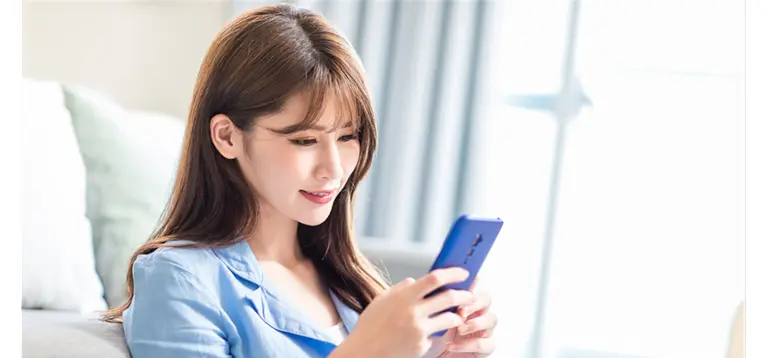
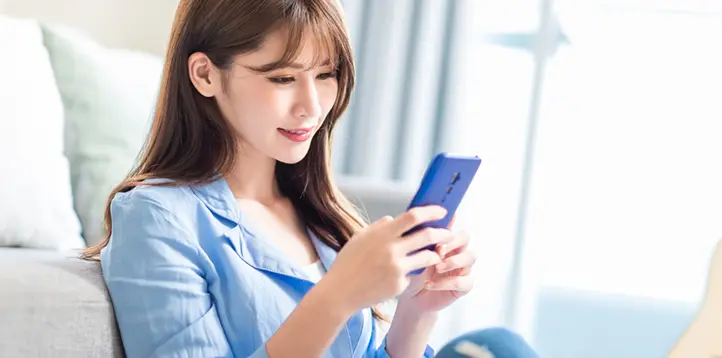
CSS完成

diff --git a/css/style.css b/css/style.css
@@ -1,1 +1,1 @@
-@charset "UTF-8";*,::after,::before{box-sizing:border-box}a,body,button,dd,div,dl,dt,figure,h1,h2,h3,h4,h5,h6,html,img,li,ol,p,small,span,table,td,th,time,tr,ul{border:0;font-size:100%;font-weight:400;margin:0;padding:0;vertical-align:baseline}html{-webkit-text-size-adjust:100%;-moz-text-size-adjust:100%;text-size-adjust:100%;line-height:1}ol,ul{list-style-type:""}dd,li{list-style-type:none}article,aside,figcaption,figure,footer,header,main,nav,section{display:block}img{border:none;vertical-align:bottom}abbr{text-decoration:none}address{font-style:normal;font-weight:400}iframe{border:none}html{font-size:calc(16 / 393 * 100vw)}@media screen and (min-width:750px){html{font-size:calc(16 / 393 * 750px)}}body{color:#333;font-family:"Noto Sans JP",sans-serif;font-size:.875rem;margin:0 auto;max-width:750px}a{color:inherit;text-decoration:none}@media (any-hover:hover){a:hover{cursor:pointer}}a{transition:opacity .3s ease-in-out}a:focus-visible{opacity:.6}@media (any-hover:hover){a:hover{opacity:.6}}a,img,picture{display:inline-block}img,picture,svg,video{height:100%;width:100%}img{-o-object-fit:cover;object-fit:cover}button{background:0 0;background:0 0;border:none;color:inherit}button,input,select,textarea{font:inherit}@media (min-width:768px){a[href*="tel:"]{cursor:default}}:where(button,[type=button],[type=reset],[type=submit]){touch-action:manipulation}:where(:-moz-any-link,button,[type=button],[type=reset],[type=submit],label[for],select,summary,[role=tab],[role=button]){cursor:pointer}:where(:any-link,button,[type=button],[type=reset],[type=submit],label[for],select,summary,[role=tab],[role=button]){cursor:pointer}@media (prefers-reduced-motion:reduce){*,::after,::backdrop,::before{animation-delay:0s!important;animation-duration:1ms!important;animation-iteration-count:1!important;background-attachment:scroll!important;scroll-behavior:auto!important;transition-delay:0s!important;transition-duration:1ms!important}}a[href^="tel:"]{cursor:default}:focus-visible{border-radius:4px;outline:2px solid #333}summary{display:block}summary::-webkit-details-marker{display:none}@media (any-hover:hover){summary:hover{cursor:pointer}}.l-inner{height:inherit;margin-inline:auto;max-width:768px;padding:0 1.125rem;position:relative;width:100%}.l-footer__inner{padding-block:2.5rem 2rem}.l-footer__container{align-items:center;display:flex;gap:1.875rem;justify-content:center}.l-footer__container,.l-footer__copyright{color:#8d8d8d;font-size:.75rem;font-weight:400;line-height:1.6}.l-footer__copyright{display:inline-block;margin-block-start:.6875rem;text-align:center;width:100%}.c-benefit-card{border-radius:.1875rem}.c-benefit-card__head{color:#fff;display:flex;flex-direction:column;gap:.4375rem;height:6.25rem;justify-content:center;position:relative;text-align:center}.c-benefit-card__bg{background:#fa92a7;border-radius:.1875rem .1875rem 0 0;height:6.3125rem;position:absolute;width:100%;z-index:1}.c-benefit-card__bg::before{background:#fa92a7;border-radius:50%;content:"";height:5.125rem;left:50%;position:absolute;top:-2.5625rem;transform:translateX(-50%);width:5.125rem}.c-benefit-card__number{font-family:"EB Garamond",sans-serif;font-size:2rem;font-weight:400;top:-1rem;translate:-50%;z-index:2}.c-benefit-card__number,.c-benefit-card__number::before{font-style:italic;left:50%;line-height:.875;position:absolute;text-align:center}.c-benefit-card__number::before{content:"Point";font-size:1.0625rem;font-weight:300;top:-.8125rem;transform:translateX(-50%)}.c-benefit-card__text{color:#fff;font-family:"shippori mincho",serif;font-size:1.6875rem;font-weight:700;line-height:1.18;z-index:2}.c-benefit-card__body{display:flex;flex-direction:column-reverse}.c-benefit-card__description-wrap{background:#fff8fa;border-radius:0 0 .1875rem .1875rem;padding-block-end:.625rem;padding-block-start:.875rem;padding-inline:.9375rem}.c-benefit-card__description{color:#374151;font-size:.875rem;font-weight:400;line-height:1.62}.c-benefit-card__attention{display:inline-block;margin-block-start:.5rem}.p-action{padding-block-start:2.5rem}.p-action__head{display:flex;flex-direction:column;gap:.5rem}.p-action__head span{font-size:.875rem}.p-action__head-text{background:linear-gradient(126deg,#ed8ea4 38.44%,#e66881 109.98%);border-radius:.4375rem;color:#fff;display:inline-block;font-family:"shippori mincho",serif;font-size:1.5rem;font-weight:800;line-height:1.8;margin-inline:auto;padding-inline:.625rem;text-align:center;width:-moz-fit-content;width:fit-content}.p-action__contents{padding-block:2.5rem}.p-action__text{color:#333;font-weight:700;text-align:center;text-align:center}.p-action__text--1,.p-action__text--2{line-height:1.8}.p-action__text--2{padding-block-start:1.3125rem}.p-action__text--3{padding-block-start:1.0625rem}.p-action__list{display:flex;flex-direction:column;gap:.625rem;padding-block-start:1.875rem}.p-action__item{align-items:center;background:#ffedf2;border:.03125rem solid #e5647e;border-radius:.125rem;display:flex;gap:.5rem;margin-inline:auto;padding-inline-start:.5625rem;width:18.75rem}.p-action__item-check{height:.875rem;width:.875rem}.p-action__item-text{color:#e5647e;font-weight:700;line-height:1.8}.p-action__text--4{line-height:1.8;padding-block-start:1.75rem}.p-action__text--5{padding-block-start:.75rem}.p-benefit{background:#ffe1e1;padding-block-end:2.5625rem}.p-benefit__head{height:15.5625rem;position:relative}.p-benefit__head-bg{inset:0;position:absolute}.p-benefit__head-text{color:#fff;font-family:"shippori mincho",serif;font-size:1.25rem;font-weight:800;left:50%;line-height:1.85;position:absolute;text-align:center;top:2.5rem;translate:-50%;width:100%}.p-benefit__head-text--accent{font-size:2rem;position:relative}.p-benefit__head-text--accent::after{background:url(../img/dec_line.svg);content:"";position:absolute}.p-benefit__list{display:flex;flex-direction:column;gap:4rem;margin-block:3.125rem 2rem}.p-credibility{background:#fff7f8;padding-block-end:1.875rem}.p-credibility__head{height:11.625rem;position:relative}.p-credibility__head-bg{inset:0;position:absolute}.p-credibility__head-text{color:#fff;font-family:"shippori mincho",serif;font-size:1.375rem;font-weight:800;left:50%;line-height:1.17;position:absolute;text-align:center;top:2.5rem;translate:-50%;width:100%}.p-credibility__content{background:#fff;border-radius:.75rem;box-shadow:.125rem .125rem .6875rem 0 rgba(222,188,192,.4);padding:1.9375rem 1rem}.p-credibility__name-group{display:flex;flex-direction:column;gap:.25rem}.p-credibility__name-text{background:#fa92a7;border-radius:.3125rem;color:#fff;display:inline-block;font-size:1.125rem;font-weight:700;line-height:1.8;margin-inline:auto;padding-inline:.625rem;width:-moz-fit-content;width:fit-content}.p-credibility__icon{margin-inline:auto;padding-block-start:.4375rem;width:12.0625rem}.p-credibility__text{color:#374151;font-weight:350;line-height:2.2}.p-credibility__text+.p-credibility__text{padding-block-start:1.125rem}.p-easeofuse{background:#ffe1e1}.p-easeofuse__head{background:#e5647e;color:#fff;font-family:"shippori mincho",serif;font-size:1.375rem;font-weight:800;line-height:1.45;padding-block:1.3125rem;text-align:center;white-space:nowrap;width:100%}.p-easeofuse__inner{padding-block:1.375rem 2.5rem;text-align:center}.p-easeofuse__description-1{font-weight:500;line-height:2.21}.p-easeofuse__video-container{margin-inline:auto;padding-block-start:1.6875rem;width:20.9375rem}.p-easeofuse__video-container video{aspect-ratio:635/401}.p-easeofuse__description-2{color:#e5647e;font-family:"shippori mincho",serif;font-size:1.75rem;font-weight:800;line-height:1.21;padding-block-start:1.3125rem}.p-easeofuse__description-3{font-weight:500;line-height:2.21;padding-block-start:.8125rem}.p-easeofuse__point{padding-block-start:1.875rem}.p-easeofuse__point-head{display:inline-block;width:11.8125rem}.p-easeofuse__point-list{display:flex;flex-direction:column;gap:.6875rem;margin-inline:auto;padding-block-start:.75rem;width:17.875rem}.p-easeofuse__point-item{background:#fff;border:.0625rem solid #e5647e;border-radius:.4375rem;padding:.375rem 1.375rem}.p-easeofuse__point-title{color:#e5647e;font-weight:700;line-height:1.42}.p-easeofuse__point-description{color:#374151;font-size:.75rem;font-weight:700;line-height:1.33;margin-block-start:.1875rem}.p-faq{background:#ffe1e1}.p-faq__head{background:#e5647e;color:#fff;font-family:"shippori mincho",serif;font-size:1.375rem;font-weight:800;line-height:2.8;padding-block:1.625rem 1.9375rem;text-align:center;width:100%}.p-faq__container{padding-block:2.5rem}.p-faq__item{background:#fff;border-radius:.875rem;color:#e5647e;font-family:"shippori mincho",serif;font-size:.875rem;line-height:2;padding-inline:1rem}.p-faq__question{padding-block:.5625rem;position:relative}.p-faq__question::after,.p-faq__question::before{background-color:#e5647e;content:"";position:absolute;top:50%;translate:0 -50%}.p-faq__question::before{height:.0625rem;right:0;width:.625rem}.p-faq__question::after{height:.625rem;right:.25rem;transition:rotate .3s ease-in-out;width:.0625rem}.p-faq__question-text{font-weight:800;padding-inline:1.25rem .9375rem;position:relative}.p-faq__question-text::before{content:"Q.";left:0;position:absolute;top:50%;translate:0 -50%}.p-faq__answer{border-block-start:1px solid #d9d9d9;height:0;opacity:0;overflow:hidden;transition:height .4s ease,opacity .4s ease}.is-opened .p-faq__answer{opacity:1}.p-faq__answer-text{color:#333;font-family:"Noto Sans JP",sans-serif;font-size:.6875rem;font-weight:400;line-height:1.9;padding-block:.5625rem;padding-left:1.25rem;position:relative}.p-faq__answer-text::before{color:#e5647e;content:"A.";font-family:"shippori mincho",serif;font-size:.875rem;font-weight:500;left:0;position:absolute;top:.25rem}.p-faq__item.is-opened .p-faq__question::after{rotate:90deg}details+details{margin-block-start:.625rem}.u-animation__fadeIn{opacity:0;transition:all .3s ease-in-out;translate:0 20px}.u-animation__fadeIn.js-show{opacity:1;translate:0}@media screen and (min-width:480px){.u-xs-visible{display:none}}.u-xs-hidden{display:none}@media screen and (min-width:480px){.u-xs-hidden{display:block}}.u-sm-visible{display:block}@media screen and (min-width:768px){.u-sm-visible{display:none}}.u-sm-hidden{display:none}@media screen and (min-width:768px){.u-sm-hidden{display:inline-block}}.u-sm-hidden--inline{display:none}@media screen and (min-width:768px){.u-sm-hidden--inline{display:inline-block}}.u-md-hidden{display:block}@media screen and (min-width:768px){.u-md-hidden{display:none}}.u-md-visible{display:none}@media screen and (min-width:768px){.u-md-visible{display:block}}.u-lg-visible{display:none}@media screen and (min-width:960px){.u-lg-visible{display:block}}.u-lg-hidden{display:block}@media screen and (min-width:960px){.u-lg-hidden{display:none}}.u-xl-visible{display:none}@media screen and (min-width:1280px){.u-xl-visible{display:block}}.u-xxl-visible{display:none}@media screen and (min-width:1440px){.u-xxl-visible{display:block}}.u-font-small{color:#6b7280;font-size:.6875rem;font-weight:300;line-height:1.6}.u-font-color--accent-pink{color:#e5647e!important;font-weight:700}.u-font--attention{color:#8d8d8d;font-size:.625rem;font-weight:400;line-height:1.6;text-align:center}.u-font--attention--left{text-align:left}.u-font-squire{background:#fff;border:.03125rem solid #e5647e;border-radius:.125rem;color:#e5647e;font-weight:700;padding-inline:.125rem}.u-pointer__none{pointer-events:none!important}@media screen and (min-width:768px){.u-pointer__none--pc,.u-pointer__none--sp{pointer-events:none!important}}.u-text__center{text-align:center!important}@media screen and (min-width:768px){.u-text__center--pc,.u-text__center--sp{text-align:center!important}}.u-text__left{text-align:left!important}@media screen and (min-width:768px){.u-text__left--pc,.u-text__left--sp{text-align:left!important}}.u-text__right{text-align:right!important}@media screen and (min-width:768px){.u-text__right--pc,.u-text__right--sp{text-align:right!important}}.u-text__nowrap{white-space:nowrap}@media screen and (min-width:768px){.u-text__nowrap--pc,.u-text__nowrap--sp{white-space:nowrap}}.u-text__uppercase{text-transform:uppercase}.u-text__bold{font-weight:700}
+@charset "UTF-8";*,::after,::before{box-sizing:border-box}a,body,button,dd,div,dl,dt,figure,h1,h2,h3,h4,h5,h6,html,img,li,ol,p,small,span,table,td,th,time,tr,ul{border:0;font-size:100%;font-weight:400;margin:0;padding:0;vertical-align:baseline}html{-webkit-text-size-adjust:100%;-moz-text-size-adjust:100%;text-size-adjust:100%;line-height:1}ol,ul{list-style-type:""}dd,li{list-style-type:none}article,aside,figcaption,figure,footer,header,main,nav,section{display:block}img{border:none;vertical-align:bottom}abbr{text-decoration:none}address{font-style:normal;font-weight:400}iframe{border:none}html{font-size:calc(16 / 393 * 100vw)}@media screen and (min-width:750px){html{font-size:calc(16 / 393 * 750px)}}body{color:#333;font-family:"Noto Sans JP",sans-serif;font-size:.875rem;margin:0 auto;max-width:750px}a{color:inherit;text-decoration:none}@media (any-hover:hover){a:hover{cursor:pointer}}a{transition:opacity .3s ease-in-out}a:focus-visible{opacity:.6}@media (any-hover:hover){a:hover{opacity:.6}}a,img,picture{display:inline-block}img,picture,svg,video{height:100%;width:100%}img{-o-object-fit:cover;object-fit:cover}button{background:0 0;background:0 0;border:none;color:inherit}button,input,select,textarea{font:inherit}@media (min-width:768px){a[href*="tel:"]{cursor:default}}:where(button,[type=button],[type=reset],[type=submit]){touch-action:manipulation}:where(:-moz-any-link,button,[type=button],[type=reset],[type=submit],label[for],select,summary,[role=tab],[role=button]){cursor:pointer}:where(:any-link,button,[type=button],[type=reset],[type=submit],label[for],select,summary,[role=tab],[role=button]){cursor:pointer}@media (prefers-reduced-motion:reduce){*,::after,::backdrop,::before{animation-delay:0s!important;animation-duration:1ms!important;animation-iteration-count:1!important;background-attachment:scroll!important;scroll-behavior:auto!important;transition-delay:0s!important;transition-duration:1ms!important}}a[href^="tel:"]{cursor:default}:focus-visible{border-radius:4px;outline:2px solid #333}summary{display:block}summary::-webkit-details-marker{display:none}@media (any-hover:hover){summary:hover{cursor:pointer}}.l-inner{height:inherit;margin-inline:auto;max-width:768px;padding:0 1.125rem;position:relative;width:100%}.l-footer__inner{padding-block:2.5rem 2rem}.l-footer__container{align-items:center;display:flex;gap:1.875rem;justify-content:center}.l-footer__container,.l-footer__copyright{color:#8d8d8d;font-size:.75rem;font-weight:400;line-height:1.6}.l-footer__copyright{display:inline-block;margin-block-start:.6875rem;text-align:center;width:100%}.c-benefit-card{border-radius:.1875rem}.c-benefit-card__head{color:#fff;display:flex;flex-direction:column;gap:.4375rem;height:6.25rem;justify-content:center;position:relative;text-align:center}.c-benefit-card__bg{background:#fa92a7;border-radius:.1875rem .1875rem 0 0;height:6.3125rem;position:absolute;width:100%;z-index:1}.c-benefit-card__bg::before{background:#fa92a7;border-radius:50%;content:"";height:5.125rem;left:50%;position:absolute;top:-2.5625rem;transform:translateX(-50%);width:5.125rem}.c-benefit-card__number{font-family:"EB Garamond",sans-serif;font-size:2rem;font-weight:400;top:-1rem;translate:-50%;z-index:2}.c-benefit-card__number,.c-benefit-card__number::before{font-style:italic;left:50%;line-height:.875;position:absolute;text-align:center}.c-benefit-card__number::before{content:"Point";font-size:1.0625rem;font-weight:300;top:-.8125rem;transform:translateX(-50%)}.c-benefit-card__text{color:#fff;font-family:"shippori mincho",serif;font-size:1.6875rem;font-weight:700;line-height:1.18;z-index:2}.c-benefit-card__body{display:flex;flex-direction:column-reverse}.c-benefit-card__description-wrap{background:#fff8fa;border-radius:0 0 .1875rem .1875rem;padding-block-end:.625rem;padding-block-start:.875rem;padding-inline:.9375rem}.c-benefit-card__description{color:#374151;font-size:.875rem;font-weight:400;line-height:1.62}.c-benefit-card__attention{display:inline-block;margin-block-start:.5rem}.p-action{padding-block-start:2.5rem}.p-action__head{display:flex;flex-direction:column;gap:.5rem}.p-action__head span{font-size:.875rem}.p-action__head-text{background:linear-gradient(126deg,#ed8ea4 38.44%,#e66881 109.98%);border-radius:.4375rem;color:#fff;display:inline-block;font-family:"shippori mincho",serif;font-size:1.5rem;font-weight:800;line-height:1.8;margin-inline:auto;padding-inline:.625rem;text-align:center;width:-moz-fit-content;width:fit-content}.p-action__contents{padding-block:2.5rem}.p-action__text{color:#333;font-weight:700;text-align:center;text-align:center}.p-action__text--1,.p-action__text--2{line-height:1.8}.p-action__text--2{padding-block-start:1.3125rem}.p-action__text--3{padding-block-start:1.0625rem}.p-action__list{display:flex;flex-direction:column;gap:.625rem;padding-block-start:1.875rem}.p-action__item{align-items:center;background:#ffedf2;border:.03125rem solid #e5647e;border-radius:.125rem;display:flex;gap:.5rem;margin-inline:auto;padding-inline-start:.5625rem;width:18.75rem}.p-action__item-check{height:.875rem;width:.875rem}.p-action__item-text{color:#e5647e;font-weight:700;line-height:1.8}.p-action__text--4{line-height:1.8;padding-block-start:1.75rem}.p-action__text--5{padding-block-start:.75rem}.p-benefit{background:#ffe1e1;padding-block-end:2.5625rem}.p-benefit__head{height:15.5625rem;position:relative}.p-benefit__head-bg{inset:0;position:absolute}.p-benefit__head-text{color:#fff;font-family:"shippori mincho",serif;font-size:1.25rem;font-weight:800;left:50%;line-height:1;padding-block-start:1.875rem;position:absolute;text-align:center;top:2.5rem;translate:-50%;width:100%}.p-benefit__head-text--accent{display:inline-block;font-size:2rem;line-height:1.85;position:relative}.p-benefit__head-text--accent::after{background:url(../img/dec_line.svg) center/contain no-repeat;content:"";height:auto;inset:0;position:absolute;top:2.75rem;width:100%}.p-benefit__list{display:flex;flex-direction:column;gap:4rem;margin-block:3.125rem 2rem}.p-credibility{background:#fff7f8;padding-block-end:1.875rem}.p-credibility__head{height:11.625rem;position:relative}.p-credibility__head-bg{inset:0;position:absolute}.p-credibility__head-text{color:#fff;font-family:"shippori mincho",serif;font-size:1.375rem;font-weight:800;left:50%;line-height:1.17;position:absolute;text-align:center;top:2.5rem;translate:-50%;width:100%}.p-credibility__content{background:#fff;border-radius:.75rem;box-shadow:.125rem .125rem .6875rem 0 rgba(222,188,192,.4);padding:1.9375rem 1rem}.p-credibility__name-group{display:flex;flex-direction:column;gap:.25rem}.p-credibility__name-text{background:#fa92a7;border-radius:.3125rem;color:#fff;display:inline-block;font-size:1.125rem;font-weight:700;line-height:1.8;margin-inline:auto;padding-inline:.625rem;width:-moz-fit-content;width:fit-content}.p-credibility__icon{margin-inline:auto;padding-block-start:.4375rem;width:12.0625rem}.p-credibility__text{color:#374151;font-weight:350;line-height:2.2}.p-credibility__text+.p-credibility__text{padding-block-start:1.125rem}.p-easeofuse{background:#ffe1e1}.p-easeofuse__head{background:#e5647e;color:#fff;font-family:"shippori mincho",serif;font-size:1.375rem;font-weight:800;line-height:1.45;padding-block:1.3125rem;text-align:center;white-space:nowrap;width:100%}.p-easeofuse__inner{padding-block:1.375rem 2.5rem;text-align:center}.p-easeofuse__description-1{font-weight:500;line-height:2.21}.p-easeofuse__video-container{margin-inline:auto;padding-block-start:1.6875rem;width:20.9375rem}.p-easeofuse__video-container video{aspect-ratio:635/401}.p-easeofuse__description-2{color:#e5647e;font-family:"shippori mincho",serif;font-size:1.75rem;font-weight:800;line-height:1.21;padding-block-start:1.3125rem}.p-easeofuse__description-3{font-weight:500;line-height:2.21;padding-block-start:.8125rem}.p-easeofuse__point{padding-block-start:1.875rem}.p-easeofuse__point-head{display:inline-block;width:11.8125rem}.p-easeofuse__point-list{display:flex;flex-direction:column;gap:.6875rem;margin-inline:auto;padding-block-start:.75rem;width:17.875rem}.p-easeofuse__point-item{background:#fff;border:.0625rem solid #e5647e;border-radius:.4375rem;padding:.375rem 1.375rem}.p-easeofuse__point-title{color:#e5647e;font-weight:700;line-height:1.42}.p-easeofuse__point-description{color:#374151;font-size:.75rem;font-weight:700;line-height:1.33;margin-block-start:.1875rem}.p-faq{background:#ffe1e1}.p-faq__head{background:#e5647e;color:#fff;font-family:"shippori mincho",serif;font-size:1.375rem;font-weight:800;line-height:2.8;padding-block:1.625rem 1.9375rem;text-align:center;width:100%}.p-faq__container{padding-block:2.5rem}.p-faq__item{background:#fff;border-radius:.875rem;color:#e5647e;font-family:"shippori mincho",serif;font-size:.875rem;line-height:2;padding-inline:1rem}.p-faq__question{padding-block:.5625rem;position:relative}.p-faq__question::after,.p-faq__question::before{background-color:#e5647e;content:"";position:absolute;top:50%;translate:0 -50%}.p-faq__question::before{height:.0625rem;right:0;width:.625rem}.p-faq__question::after{height:.625rem;right:.25rem;transition:rotate .3s ease-in-out;width:.0625rem}.p-faq__question-text{font-weight:800;padding-inline:1.25rem .9375rem;position:relative}.p-faq__question-text::before{content:"Q.";left:0;position:absolute;top:50%;translate:0 -50%}.p-faq__answer{border-block-start:1px solid #d9d9d9;height:0;opacity:0;overflow:hidden;transition:height .4s ease,opacity .4s ease}.is-opened .p-faq__answer{opacity:1}.p-faq__answer-text{color:#333;font-family:"Noto Sans JP",sans-serif;font-size:.6875rem;font-weight:400;line-height:1.9;padding-block:.5625rem;padding-left:1.25rem;position:relative}.p-faq__answer-text::before{color:#e5647e;content:"A.";font-family:"shippori mincho",serif;font-size:.875rem;font-weight:500;left:0;position:absolute;top:.25rem}.p-faq__item.is-opened .p-faq__question::after{rotate:90deg}details+details{margin-block-start:.625rem}.u-animation__fadeIn{opacity:0;transition:all .3s ease-in-out;translate:0 20px}.u-animation__fadeIn.js-show{opacity:1;translate:0}@media screen and (min-width:480px){.u-xs-visible{display:none}}.u-xs-hidden{display:none}@media screen and (min-width:480px){.u-xs-hidden{display:block}}.u-sm-visible{display:block}@media screen and (min-width:768px){.u-sm-visible{display:none}}.u-sm-hidden{display:none}@media screen and (min-width:768px){.u-sm-hidden{display:inline-block}}.u-sm-hidden--inline{display:none}@media screen and (min-width:768px){.u-sm-hidden--inline{display:inline-block}}.u-md-hidden{display:block}@media screen and (min-width:768px){.u-md-hidden{display:none}}.u-md-visible{display:none}@media screen and (min-width:768px){.u-md-visible{display:block}}.u-lg-visible{display:none}@media screen and (min-width:960px){.u-lg-visible{display:block}}.u-lg-hidden{display:block}@media screen and (min-width:960px){.u-lg-hidden{display:none}}.u-xl-visible{display:none}@media screen and (min-width:1280px){.u-xl-visible{display:block}}.u-xxl-visible{display:none}@media screen and (min-width:1440px){.u-xxl-visible{display:block}}.u-font-small{color:#6b7280;font-size:.6875rem;font-weight:300;line-height:1.6}.u-font-color--accent-pink{color:#e5647e!important;font-weight:700}.u-font--attention{color:#8d8d8d;font-size:.625rem;font-weight:400;line-height:1.6;text-align:center}.u-font--attention--left{text-align:left}.u-font-squire{background:#fff;border:.03125rem solid #e5647e;border-radius:.125rem;color:#e5647e;font-weight:700;padding-inline:.125rem}.u-pointer__none{pointer-events:none!important}@media screen and (min-width:768px){.u-pointer__none--pc,.u-pointer__none--sp{pointer-events:none!important}}.u-text__center{text-align:center!important}@media screen and (min-width:768px){.u-text__center--pc,.u-text__center--sp{text-align:center!important}}.u-text__left{text-align:left!important}@media screen and (min-width:768px){.u-text__left--pc,.u-text__left--sp{text-align:left!important}}.u-text__right{text-align:right!important}@media screen and (min-width:768px){.u-text__right--pc,.u-text__right--sp{text-align:right!important}}.u-text__nowrap{white-space:nowrap}@media screen and (min-width:768px){.u-text__nowrap--pc,.u-text__nowrap--sp{white-space:nowrap}}.u-text__uppercase{text-transform:uppercase}.u-text__bold{font-weight:700}

diff --git a/src/assets/sass/pages/p-benefit.scss b/src/assets/sass/pages/p-benefit.scss
@@ -15,6 +15,7 @@
 }
 
 .p-benefit__head-text {
+  padding-block-start: rm(30);
   position: absolute;
   top: rm(40);
   left: 50%;
@@ -23,7 +24,7 @@
   font-family: $ff-mincho;
   font-size: rm(20);
   font-weight: 800;
-  line-height: 1.85;
+  line-height: 1;
   width: 100%;
   text-align: center;
 }
@@ -31,10 +32,16 @@
 .p-benefit__head-text--accent {
   font-size: rm(32);
   position: relative;
+  display: inline-block;
+  line-height: 1.85;
   &::after {
     content: "";
     position: absolute;
-    background: url("../img/dec_line.svg");
+    background: url("../img/dec_line.svg") center / contain no-repeat;
+    width: 100%;
+    height: auto;
+    inset: 0;
+    top: rm(44);
   }
 }
 

diff --git a/home.php b/home.php
@@ -115,7 +115,7 @@
                                 </p>
                             </div>
                             <figure class="c-benefit-card__image">
-                                <img src="<?php echo esc_url(get_template_directory_uri()); ?>/img/img_benefit-5.webp" loading="lazy" alt="女性が知り合いに合う雰囲気で来店する画像" width="361" height="180">
+                                <img src="<?php echo esc_url(get_template_directory_uri()); ?>/img/img_benefit-4.webp" loading="lazy" alt="女性が知り合いに合う雰囲気で来店する画像" width="361" height="180">
                             </figure>
                         </div>
                     </li>
